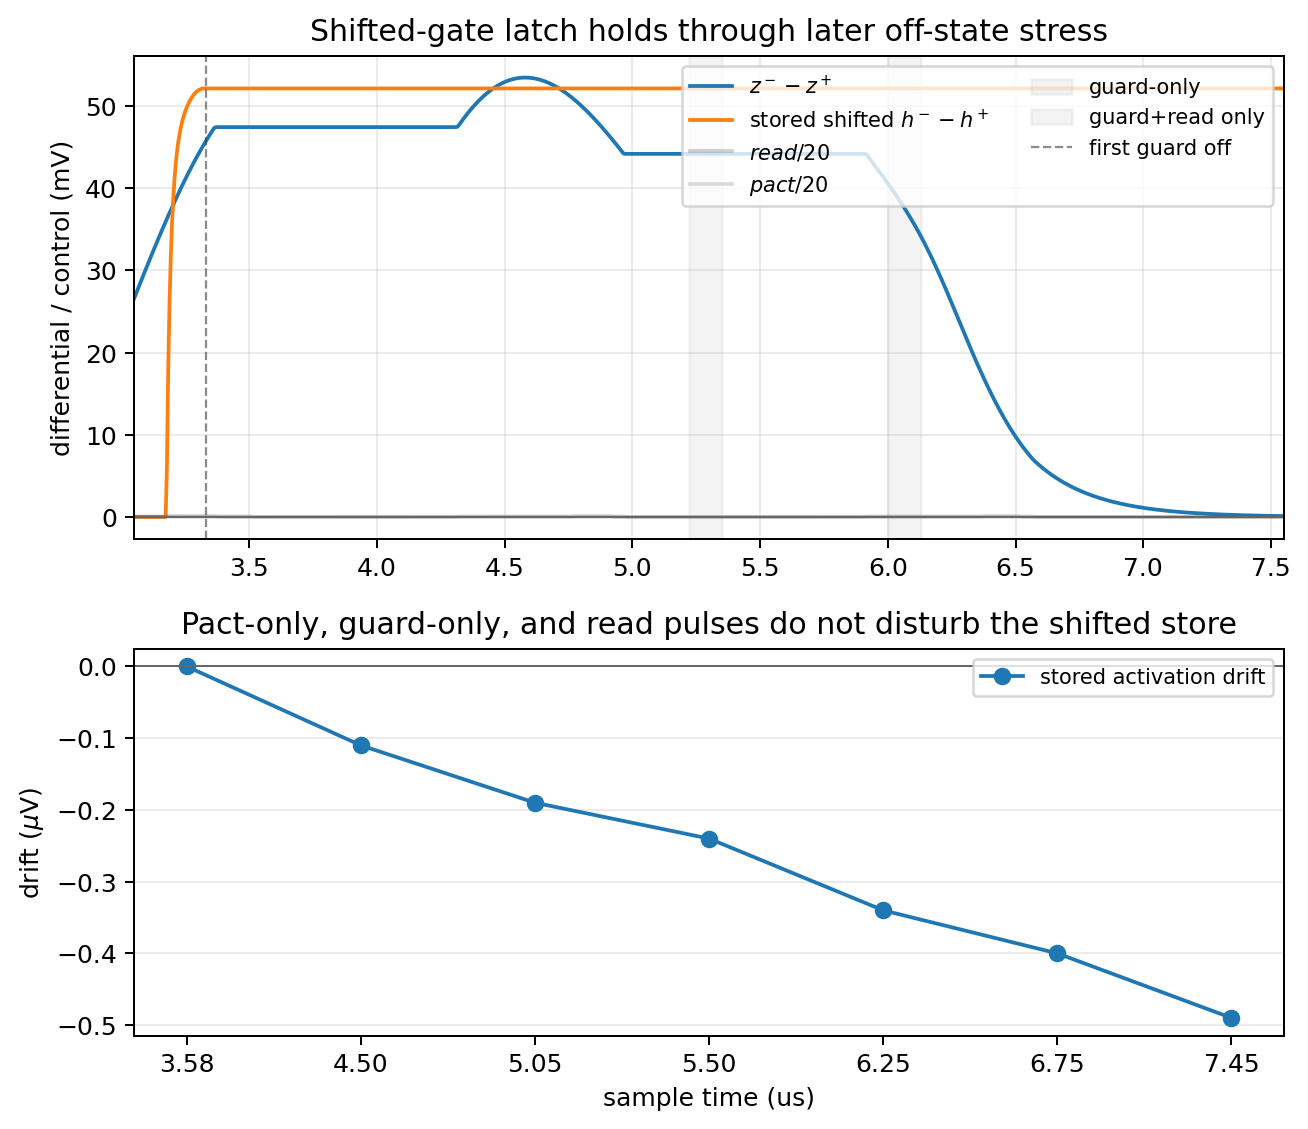
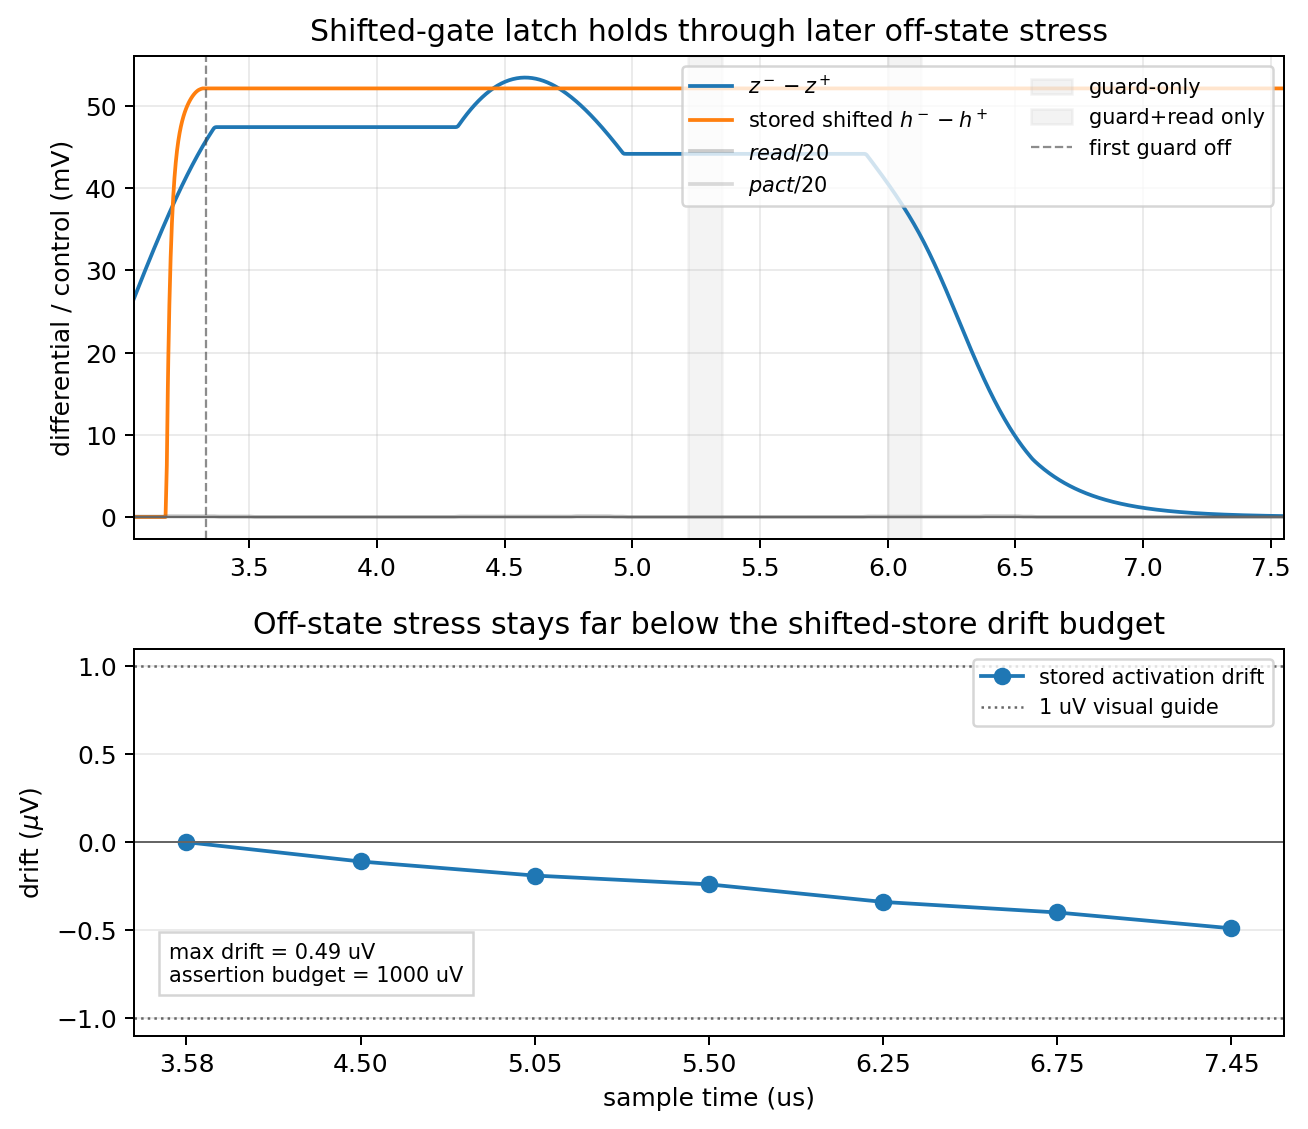
Annotate shifted gate off-isolation drift

diff --git a/spice/run_mos_cell_characterization.py b/spice/run_mos_cell_characterization.py
@@ -13401,11 +13401,23 @@ quit
     shift_stress_x = np.arange(len(guard_off_sample_times))
     shift_stress_axes[1].plot(shift_stress_x, 1e6 * shift_stress_drift, "o-", label="stored activation drift")
     shift_stress_axes[1].axhline(0, color="0.4", linewidth=0.8)
+    shift_stress_axes[1].axhline(1.0, color="0.4", linestyle=":", linewidth=1.0, label="1 uV visual guide")
+    shift_stress_axes[1].axhline(-1.0, color="0.4", linestyle=":", linewidth=1.0)
+    shift_stress_axes[1].text(
+        0.03,
+        0.14,
+        f"max drift = {1e6 * np.max(np.abs(shift_stress_drift)):.2f} uV\n"
+        "assertion budget = 1000 uV",
+        transform=shift_stress_axes[1].transAxes,
+        fontsize="small",
+        bbox={"facecolor": "white", "alpha": 0.82, "edgecolor": "0.8"},
+    )
+    shift_stress_axes[1].set_ylim(-1.1, 1.1)
     shift_stress_axes[1].set_xticks(shift_stress_x)
     shift_stress_axes[1].set_xticklabels(guard_off_sample_labels)
     shift_stress_axes[1].set_xlabel("sample time (us)")
     shift_stress_axes[1].set_ylabel("drift ($\\mu$V)")
-    shift_stress_axes[1].set_title("Pact-only, guard-only, and read pulses do not disturb the shifted store")
+    shift_stress_axes[1].set_title("Off-state stress stays far below the shifted-store drift budget")
     shift_stress_axes[1].grid(True, axis="y", alpha=0.25)
     shift_stress_axes[1].legend(loc="upper right", fontsize="small")
     shift_stress_fig.tight_layout()

diff --git a/engineering_log.md b/engineering_log.md
@@ -2,6 +2,13 @@
 
 ## 2026-05-25
 
+- Clarified the shifted-gate off-isolation stress plot.  The ngspice assertion
+  permits up to \(1000\,\mu\)V stored-activation drift after pact-only,
+  guard-only, and read stress pulses, while the measured maximum drift is only
+  \(0.49\,\mu\)V.  The regenerated
+  `mos_hidden_writer_restored_gate_hybrid_update_forward_guard_forward_pair_96u_shifted_gate_off_isolation_ngspice`
+  plot now labels that measured maximum, prints the assertion budget, and uses
+  a \(\pm1\,\mu\)V visual guide so the sub-\(\mu\)V behavior remains readable.
 - Clarified the 96u high-gain guarded-hold robustness drift plot.  The ngspice
   assertions allow \(300\,\mu\)V drift for the positive and negative hold
   fixtures and \(1000\,\mu\)V for later off-state stress, while the measured
